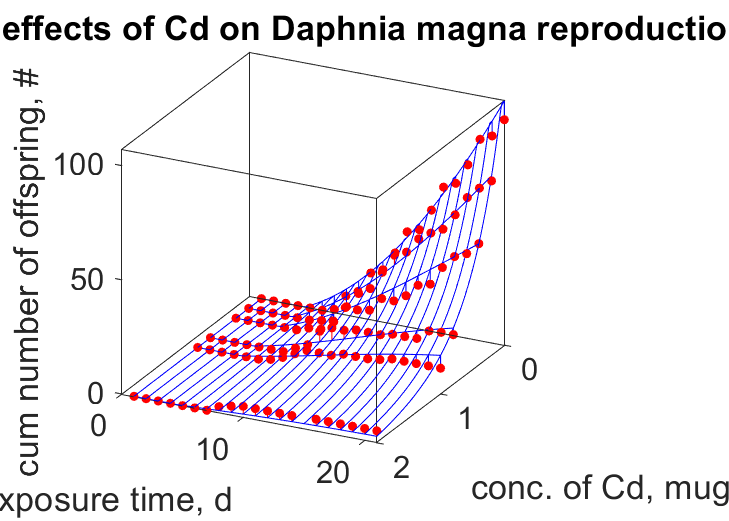
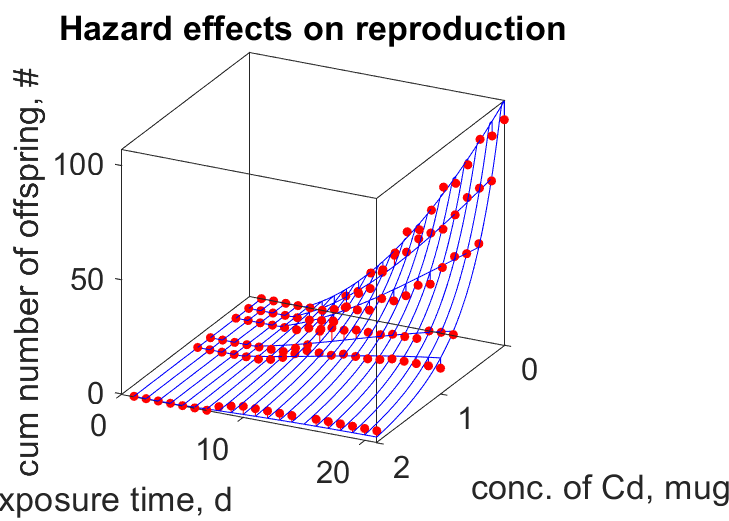
OECD221 and 203

Changed region(s): [[0.2716, 0.2457, 0.6941, 0.8599], [0.0, 0.0307, 0.9959, 0.0921]]

diff --git a/OECD221_Cd/OECD221_Cd_res.html b/OECD221_Cd/OECD221_Cd_res.html
@@ -44,7 +44,7 @@
   </div>
 
   <div class="par">
-  <h4>COMPLETE = NaN; MRE =    0.215; SMAE =    0.447; SMSE =    0.171 </h4>
+  <h4>COMPLETE = NaN; MRE =    0.211; SMAE =    0.453; SMSE =    0.194 </h4>
   </div>
 
   <p class="clear"></p>
@@ -53,8 +53,8 @@
   <h2>Data & predictions</h2>
   <TABLE id="prd">
     <TR  class="head"><TH>data</TH> <TH>prd</TH> <TH>RE</TH>  <TH>symbol</TH> <TH>units</TH> <TH>description</TH> </TR>
-    <TR><TD colspan="2">see figure</TD> <TD>0.2147</TD> <TD>tN</TD> <TD colspan="2">exposure time <font color="blue"><i>vs.</i></font> conc. of Cd <font color="blue"><i>vs.</i></font> cum number of offspring</TD>
-    <TR><TD colspan="2">see figure</TD> <TD>0.2147</TD> <TD>tNN</TD> <TD colspan="2">exposure time <font color="blue"><i>vs.</i></font> conc. of Cd <font color="blue"><i>vs.</i></font> cum number of offspring</TD>
+    <TR><TD colspan="2">see figure</TD> <TD>0.2115</TD> <TD>tN</TD> <TD colspan="2">exposure time <font color="blue"><i>vs.</i></font> conc. of Cd <font color="blue"><i>vs.</i></font> cum number of offspring</TD>
+    <TR><TD colspan="2">see figure</TD> <TD>0.2115</TD> <TD>tNN</TD> <TD colspan="2">exposure time <font color="blue"><i>vs.</i></font> conc. of Cd <font color="blue"><i>vs.</i></font> cum number of offspring</TD>
   </TABLE>
   </div>
 
@@ -62,9 +62,9 @@
   <h2>nat parameters</h2>
   <TABLE id="par">
     <TR class="head"><TH>symbol</TH> <TH>units</TH> <TH>value</TH>  <TH>free</TH> <TH>description</TH> </TR>
-    <TR><TD>c_0</TD> <TD>mug</TD> <TD>0.0004995</TD> <TD>1</TD> <TD> No-Effect-Concentration (external, may be zero)</TD></TR>
-    <TR><TD>c_T</TD> <TD>mug</TD> <TD>0.00563</TD> <TD>1</TD> <TD>tolerance concentration</TD></TR>
-    <TR><TD>k_e</TD> <TD>1/d</TD> <TD>0.001074</TD> <TD>1</TD> <TD>elimination rate at L = L_m</TD></TR>
+    <TR><TD>c_0</TD> <TD>mug/l</TD> <TD>0.0004875</TD> <TD>1</TD> <TD> No-Effect-Concentration (external, may be zero)</TD></TR>
+    <TR><TD>c_T</TD> <TD>mug/l</TD> <TD>0.005445</TD> <TD>1</TD> <TD>tolerance concentration</TD></TR>
+    <TR><TD>k_e</TD> <TD>1/d</TD> <TD>0.001078</TD> <TD>1</TD> <TD>elimination rate at L = L_m</TD></TR>
     <TR><TD>kap</TD> <TD>-</TD> <TD>0.58</TD> <TD>0</TD> <TD>fraction allocated to growth + som maint</TD></TR>
     <TR><TD>kap_R</TD> <TD>-</TD> <TD>0.95</TD> <TD>0</TD> <TD>fraction of reprod flux that is fixed into embryo reserve</TD></TR>
     <TR><TD>g</TD> <TD>-</TD> <TD>4.94</TD> <TD>0</TD> <TD>energy investment ratio</TD></TR>

diff --git a/OECD221_Cd/OECD221_Cd_elas.html b/OECD221_Cd/OECD221_Cd_elas.html
@@ -44,7 +44,7 @@
   </div>
 
   <div class="elas2">
-    <h3>lossfunction sb 0.1687; perturbation factor 1e-06</h3>
+    <h3>lossfunction sb 1.05; perturbation factor 1e-06</h3>
   </div>
 
   <p class="clear"></p>
@@ -53,9 +53,9 @@
   <h2>Elasticities</h2>
   <TABLE id="elas">
     <TR  class="head"><TH>par</TH> <TH>elasticity</TH></TR>
-    <TR><TH class="head">c_0</TH> <TD>-0.04861</TD></TR>
-    <TR><TH class="head">c_T</TH> <TD>-3.099</TD></TR>
-    <TR><TH class="head">k_e</TH> <TD>1.657</TD></TR>
+    <TR><TH class="head">c_0</TH> <TD>-0.08436</TD></TR>
+    <TR><TH class="head">c_T</TH> <TD>-3.436</TD></TR>
+    <TR><TH class="head">k_e</TH> <TD>4.68</TD></TR>
   </TABLE>
   </div>
 
@@ -63,9 +63,9 @@
   <h2>Second order elasticities</h2>
   <TABLE id="elas2">
     <TR class="head"><TH>par</TH> <TH>c_0</TH> <TH>c_T</TH> <TH>k_e</TH> </TR>
-    <TR><TH class="head">c_0</TH> <TD class="diag">0.06023</TD> <TD>1.231</TD> <TD>-0.7915</TD> </TR>
-    <TR><TH class="head">c_T</TH> <TD>1.231</TD> <TD class="diag">21.1</TD> <TD>-5.582</TD> </TR>
-    <TR><TH class="head">k_e</TH> <TD>-0.7915</TD> <TD>-5.582</TD> <TD class="diag">1.422e+06</TD> </TR>
+    <TR><TH class="head">c_0</TH> <TD class="diag">0.0131</TD> <TD>1.103</TD> <TD>-1.467</TD> </TR>
+    <TR><TH class="head">c_T</TH> <TD>1.103</TD> <TD class="diag">17.43</TD> <TD>-23.17</TD> </TR>
+    <TR><TH class="head">k_e</TH> <TD>-1.467</TD> <TD>-23.17</TD> <TD class="diag">1.236e+06</TD> </TR>
   </TABLE>
   </div>
 

diff --git a/OECD221_Cd/OECD221_Cd_report.html b/OECD221_Cd/OECD221_Cd_report.html
@@ -23,6 +23,7 @@
 
     p.clear {
       clear: both;
+      padding-top: 15px;
     }
 
     div.footer{
@@ -188,7 +189,7 @@
     <li>The reproduction rate is multiplied by the embryo survival probability exp(-s)</li>
   </ul>
 
-  <h3 style="clear:both" class="pet">Discussion</h3>
+  <h3 class="pet">Discussion</h3>
   <ul> 
     <li>
       The type of length in parameter L0 should correspond with that in parameter v, so structural length
@@ -202,7 +203,7 @@
 
   <div class="footer">
     Report generated by <a href="https://add-my-pet.github.io/AmPtox/docs/">AmPtox</a>
-    at 2022/02/18; 
+    at 2022/02/22; 
     <a href="https://www.bio.vu.nl/thb/deb/deblab/add_my_pet/sys/disclaimer.html">
       Disclaimer/Terms of use
     </a> &#169; 2009-2022 Add-my-Pet

diff --git a/OECD203_dieldrin/mydata_OECD203_dieldrin.m b/OECD203_dieldrin/mydata_OECD203_dieldrin.m
@@ -1,0 +1,83 @@
+function [data, auxData, metaData, txtData, weights] = mydata_OECD221_Cd
+%% set metaData (optional fields)
+
+metaData.author = 'Bas Kooijman';
+metaData.institution = 'VU University Amsterdam';
+metaData.email = 'bas.kooijman@vu.nl';
+metaData.date = [2022 02 22];
+metaData.toxTest = 'OECD201';
+metaData.species = 'Poecilia reticulata';
+metaData.casno = '60-57-1';
+metaData.compound = 'Dieldrin';
+metaData.molWeight = 380.9; 
+metaData.endpoint = 'survival';
+metaData.DEBpars = 'NA';
+metaData.DEBmodel = 'NA';
+
+%% set data
+
+t = (0:7)'; % d, exposure times in days
+c = [0 .32 5.6 10 18 32 56 100]'; % mug/l, dieldrin concentrations in sea water
+N = [20*ones(1,8); 20*ones(1,6),19,18; ... % surviving guppies, data from IMW-TNO
+     20 20 19 19 19 18 18 18; 20 20 17 15 14 12 9 8; ...
+     20 18 15 9 4 4 3 2; 20 18 9 2 1 0 0 0; ...
+     20 17 6 1 0 0 0 0; 20 5, zeros(1,6)]';
+data.tN = [t, N]; initial = 20; % compose data set
+units.tN = {'d', '#'}; label.tN = {'exposure time', 'surviving individuals'};  
+treat.tN = {1, c}; units.treat.tN = 'mug/l'; label.treat.tN = 'conc. of dieldrin';
+temp.tN = 25; units.temp.tN = 'C'; label.temp.tN = 'temperature';
+bibkey.tN = {'Adem1980','KooyBeda1996'};
+title.tN = 'Effects on hazard rate';
+comment.tN = 'Exposed in natural seawater';
+
+%% set weights for all real data
+weights = setweights(data, []);
+
+%% pack auxData and txtData for output
+auxData.treat = treat; 
+auxData.temp = temp; 
+auxData.initial = initial; 
+txtData.units = units;
+txtData.label = label;
+txtData.bibkey = bibkey;
+txtData.title = title;
+txtData.comment = comment;
+
+%% model
+TK1 = 'The temperature, food density and external concentration (i.e. in the water) are constant';
+TK2 = 'The uptake rate is proportional to the external concentration';
+TK3 = 'The elimination rate k_e is proportional to the internal concentration';
+TD1 = 'Effects are linked to the internal concentration c, scaled such that it has the dimension of an external concentration';
+TD2 = 'The hazard rate equals h+b*max(0,c-c_0) for no-effect concenteation c_0, killing rate b and blank hazrad rate h';
+metaData.model = struct('TK1',TK1, 'TK2',TK2, 'TK3',TK3, 'TD1',TD1, 'TD2',TD2);
+
+%% Discussion points
+D1 = 'The type of length in parameter L0 should correspond with that in parameter v, so structural length';
+D2 = 'Read (compound) DEB parameters from prt_report_my_pet(''Daphna_magna'')';
+metaData.discussion = struct('D1',D1, 'D2',D2);
+
+%% References
+bibkey = 'OECD203'; type = 'techreport'; bib = [ ...
+'author = {OECD}, ' ...
+'year = {2012}, ' ...
+'title  = {Test No. 203: DFish, Acute Toxicity Test}, ' ...
+'institution = {OECD Publishing, Paris}, ' ...
+'series = {OECD Guidelines for the Testing of Chemicals, Section 2}, ' ...
+'howpublished = {\url{https://www.oecd.org/chemicalsafety/risk-assessment/1948241.pdf}}'];
+metaData.biblist.(bibkey) = ['''@', type, '{', bibkey, ', ' bib, '}'';'];
+%
+bibkey = 'KooyBeda1996'; type = 'Book'; bib = [ ...
+'author = {Kooijman, S.A.L.M. and Bedaux, J.J.M.}, ' ...
+'year = {1996}, ' ...
+'title  = {The analysis of aquatic toxicity data}, ' ...
+'publisher = {VU University Press}, ' ...
+'howpublished = {\url{https://research.vu.nl/en/publications/the-analysis-of-aquatic-toxicity-data}}'];
+metaData.biblist.(bibkey) = ['''@', type, '{', bibkey, ', ' bib, '}'';'];
+estim_options('results_output', 3);
+%
+bibkey = 'Adem1980'; type = 'misc'; bib = [ ...
+'author = {Adema, T.}, ' ...
+'year = {1980}, ' ...
+'note  = {Data provided by IMW-TNO Laboratories, Delft, discussed in KooyBeda1996}'];
+metaData.biblist.(bibkey) = ['''@', type, '{', bibkey, ', ' bib, '}'';'];
+

diff --git a/OECD221_Cd/mydata_OECD221_Cd.m b/OECD221_Cd/mydata_OECD221_Cd.m
@@ -48,7 +48,7 @@ treat.tN = {1, c}; units.treat.tN = 'mug/l'; label.treat.tN = 'conc. of Cd';
 % or 2, each will result in a different way the data is plotted.
 temp.tN = 20; units.temp.tN = 'C'; label.temp.tN = 'temperature';
 bibkey.tN = {'KooyBeda1996b','KooyBeda1996'};
-title.tN = 'Hazard effects of Cd on Daphnia magna reproduction';
+title.tN = 'Hazard effects on reproduction';
  
 % the same again to illustrate a different way of presenting the results 
 data.tNN = data.tN; label.tNN = label.tN; 
@@ -61,6 +61,7 @@ bibkey.tNN = bibkey.tN;
 
 %% set weights for all real data
 weights = setweights(data, []);
+weights.tN = 10 * weights.tN;
 
 %% pack auxData and txtData for output
 auxData.treat = treat; % auxData must have at least one field

diff --git a/OECD203_dieldrin/predict_OECD203_dieldrin.m b/OECD203_dieldrin/predict_OECD203_dieldrin.m
@@ -1,0 +1,20 @@
+function [prdData, info] = predict_OECD221_Cd(par, data, auxData)
+  
+  % unpack par, data, auxData
+  vars_pull(par); vars_pull(data); vars_pull(auxData);  
+  
+  if c_0 < 0 || b < 0 || k_e < 0
+    prdData = []; info = 0; return
+  else
+    info = 1; % we use the default, filter = 1, to allow user-defined filters
+  end
+    
+  c = treat.tN{2}(:); t = tN(:,1);
+  t_0 = -log(max(1e-8,1-c_0./max(1e-8,c')))/k_e; % no-effect-time
+  c1 = ones(1,max(size(c))); % row-matrix of ones
+  t1 = ones(max(size(t)),1); % column-matrix of ones
+  f = (b/k_e)*max(0,t1*exp(-k_e*t_0) - exp(-k_e*t)*c1).*(t1*c') - ...
+      b*(t1*(max(0,c-c_0)')).*max(0,t*c1 - t1*t_0);
+  f = min(1,exp(f)).* (exp(-h*t)*c1);
+  
+  prdData.tN = f * initial;

diff --git a/OECD221_Cd/pars_init_OECD221_Cd.m b/OECD221_Cd/pars_init_OECD221_Cd.m
@@ -5,8 +5,8 @@ metaPar.model = 'nat';
 
 %% parameters 
 % stress
-par.c_0 = 0.00049955; free.c_0 = 1; units.c_0 = 'mug'; label.c_0 = ' No-Effect-Concentration (external, may be zero)';
-par.c_T = 0.0053618; free.c_T = 1; units.c_T = 'mug'; label.c_T = 'tolerance concentration';
+par.c_0 = 0.00049955; free.c_0 = 1; units.c_0 = 'mug/l'; label.c_0 = ' No-Effect-Concentration (external, may be zero)';
+par.c_T = 0.0053618; free.c_T = 1; units.c_T = 'mug/l'; label.c_T = 'tolerance concentration';
 par.k_e = 0.0010741; free.k_e = 1; units.k_e = '1/d'; label.k_e = 'elimination rate at L = L_m';
 % DEB
 par.kap = 0.58; free.kap = 0; units.kap =  '-'; label.kap = 'fraction allocated to growth + som maint';

diff --git a/OECD203_dieldrin/pars_init_OECD203_dieldrin.m b/OECD203_dieldrin/pars_init_OECD203_dieldrin.m
@@ -1,0 +1,15 @@
+function [par, metaPar, txtPar] = pars_init_OECD203_dieldrin(~)
+% input is not used, however it must remain for compatibility with the AmP estimation procedure 
+ 
+metaPar.model = 'nat'; 
+
+%% parameters 
+% stress
+par.c_0 = 2.77; free.c_0 = 1; units.c_0 = 'mug/l'; label.c_0 = ' No-Effect-Concentration (external)';
+par.b = 0.3; free.b = 1; units.b = 'l/d.mug'; label.b = 'killing raste';
+par.k_e = 0.72; free.k_e = 1; units.k_e = '1/d'; label.k_e = 'elimination rate';
+% other
+par.h = 0.008; free.h = 0; units.h = '1/d'; label.h = 'hazard rate in the blank';
+
+%% Pack output: 
+txtPar.units = units; txtPar.label = label; par.free = free; 

diff --git a/OECD203_dieldrin/run_OECD203_dieldrin.m b/OECD203_dieldrin/run_OECD203_dieldrin.m
@@ -1,11 +1,10 @@
 close all; 
 global pets
 
-pets = {'OECD221_Cd'};
+pets = {'OECD203_dieldrin'};
 
 estim_options('default'); 
 estim_options('max_step_number',5e2); 
-estim_options('max_fun_evals',5e3);  
 estim_options('tol_simplex',1e-10);  
 
 estim_options('pars_init_method', 2);
